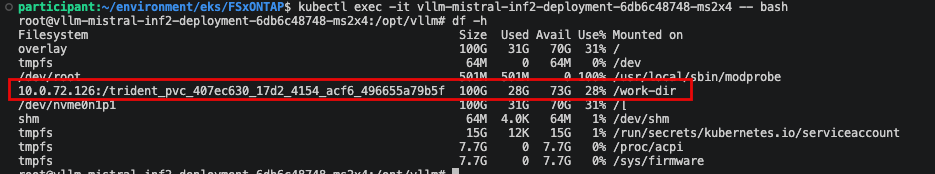
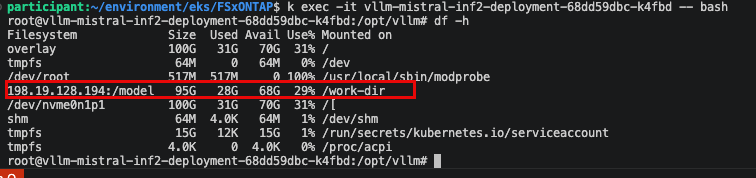
assets: replace the agent architecture mermaid diagram with an image
Swaps the mermaid flowchart in the Agentic AI module overview for a rendered
PNG. The diagram is unchanged in substance: three agents in the `agents`
namespace mounting one shared FSx for ONTAP volume, POSIX ownership allowing
the Finance and IT Ops agents into their own directory and denying the
Malicious agent, and all three reaching the same LiteLLM AI Gateway.

Added alt text describing the flow, since a mermaid block is at least
readable as source when images do not load.

Also included in this commit:
- 810: the sample verification output now lists agent-shared-data alongside
  ontap-model-claim and demo-claim, matching what participants actually see
  after Module 1 imports both volumes.
- vllm_02.png re-exported.
- .gitignore: dropped the wali/ entry now that the folder is gone from disk
  (its content was merged in 358c886).

Agent-Architecture-Big.png is the higher-resolution source, kept alongside
the 111 KB version used on the page.

Changed region(s): [[0.0, 0.0, 0.9735, 1.0]]

diff --git a/content/400_module4_agentic_fsxn/index.en.md b/content/400_module4_agentic_fsxn/index.en.md
@@ -23,42 +23,7 @@ As organizations deploy autonomous AI agents that can read, analyze, and act on 
 
 ## Architecture
 
-```mermaid
-flowchart TB
-    subgraph GW_LAYER["LiteLLM AI Gateway"]
-        direction LR
-        GW["Model Router"]
-        LLM["workshop-llm\nvLLM Mistral-7B\n(OpenWebUI chat)"]
-        BR["workshop-llm-tools\nBedrock Haiku 4.5\n(Agent tool-calling)"]
-        GW --> LLM
-        GW --> BR
-    end
-
-    subgraph EKS["EKS Cluster (namespace: agents)"]
-        direction LR
-        FA["Finance Agent\nUID: 1001\nDATA_DIR: /data/finance"]
-        IA["IT Ops Agent\nUID: 1002\nDATA_DIR: /data/itops"]
-        MA["Malicious Agent\nUID: 1099\nDATA_DIR: /data"]
-    end
-
-    subgraph FSxN["FSx for NetApp ONTAP: Single Shared Volume"]
-        direction LR
-        FD["/data/finance\nOwner: 1001:1001\nMode: 0750"]
-        ID["/data/itops\nOwner: 1002:1002\nMode: 0750"]
-    end
-
-    FA & IA & MA -->|API calls| GW
-    FA -->|"READ ✓"| FD
-    IA -->|"READ ✓"| ID
-    MA -.-x|"DENIED ✗"| FD
-    MA -.-x|"DENIED ✗"| ID
-
-    style FA fill:#c8e6c9,stroke:#2e7d32
-    style IA fill:#bbdefb,stroke:#1565c0
-    style MA fill:#ffcdd2,stroke:#c62828
-    style FD fill:#c8e6c9,stroke:#2e7d32
-    style ID fill:#bbdefb,stroke:#1565c0
-```
+![Agent architecture: three agents in the agents namespace mount one shared FSx for ONTAP volume, where POSIX ownership grants the Finance and IT Ops agents read access to their own directory and denies the Malicious agent, while all three reach the same LiteLLM AI Gateway](/static/images/Agent-Architecture.png)
 
 **Key Design Point**: All agents mount the **same PVC** (`agent-shared-data`). There is no volume-level isolation, no namespace separation, and no Kubernetes RBAC involved. The **only** access control mechanism is POSIX UID/GID permissions set on the FSxN volume subdirectories.
 

diff --git a/content/800_module8_dynamic_prov/810_dynamic_prov.md b/content/800_module8_dynamic_prov/810_dynamic_prov.md
@@ -194,6 +194,7 @@ This lists every volume at once, so you can compare them side by side:
 ```
 PV                                         CLAIM               ONTAP_VOLUME
 pvc-c2b8f1b9-9622-4c5c-968f-7f9602e0f3b3   ontap-model-claim   model
+pvc-d7756871-2a22-4937-ba50-98e31facf05a   agent-shared-data   agent_shared_data
 pvc-2dafb4be-71ee-42e4-9d57-aca021d18c5d   demo-claim          trident_pvc_2dafb4be_71ee_42e4_9d57_aca021d18c5d
 ```
 
